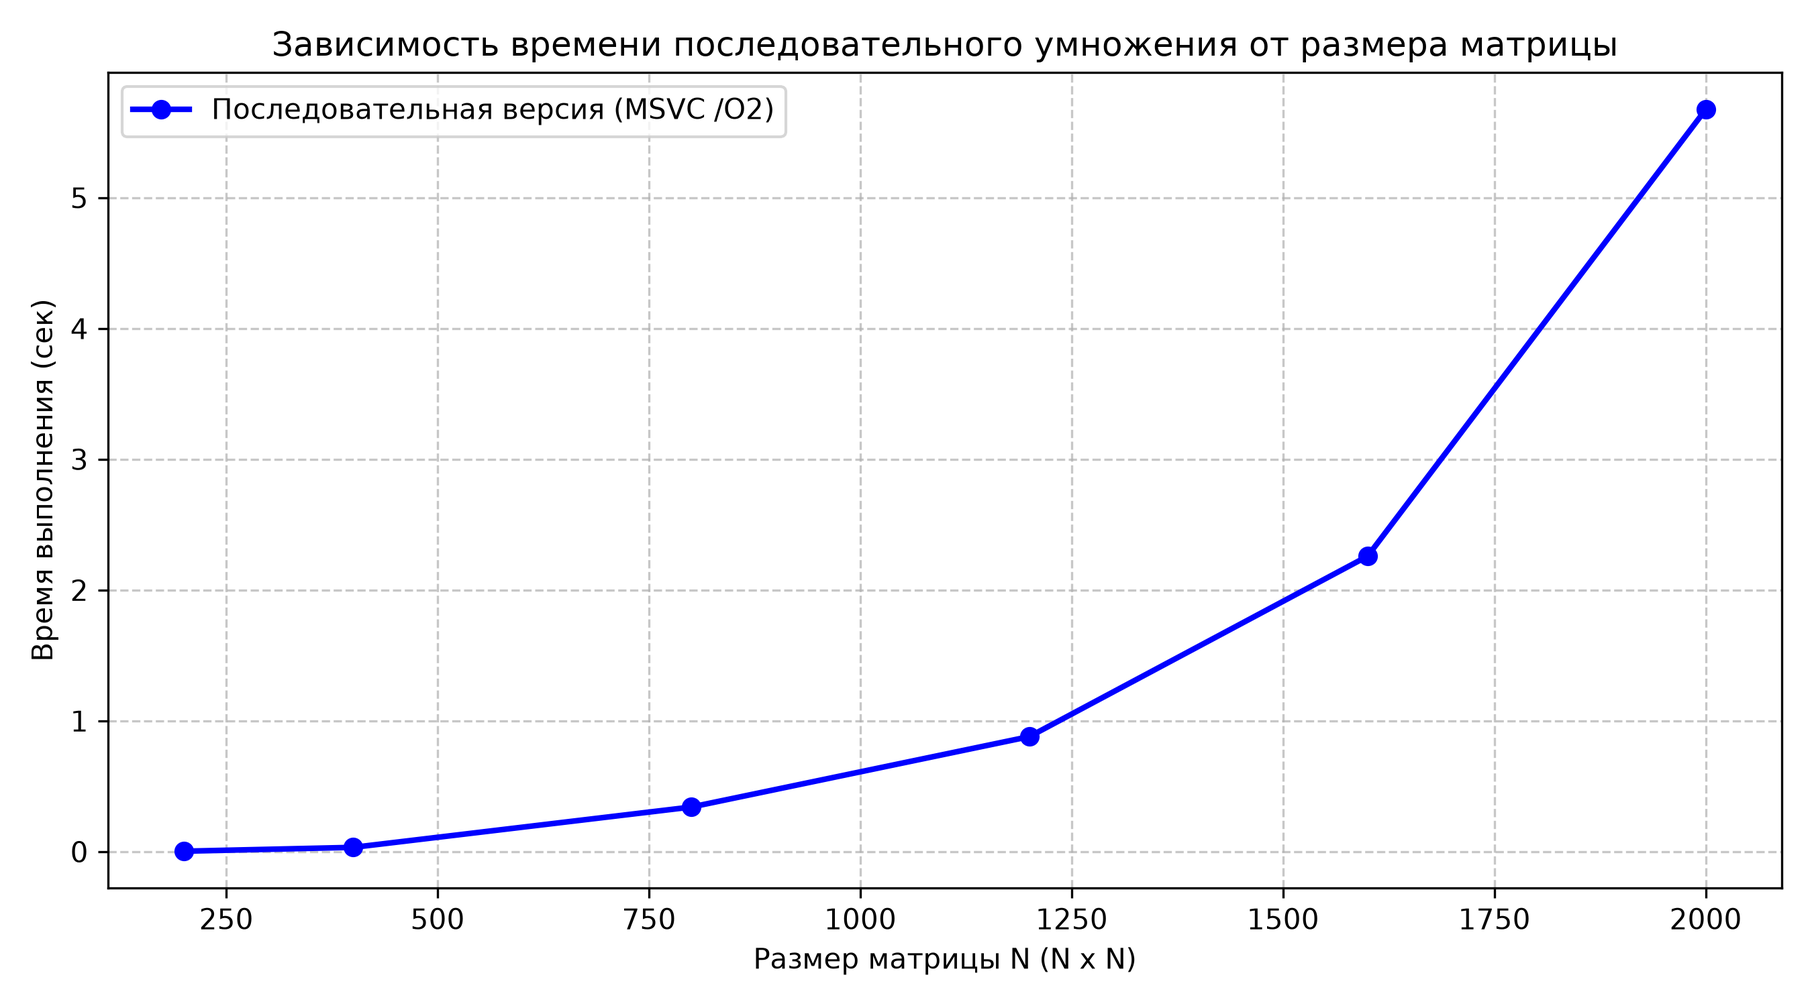
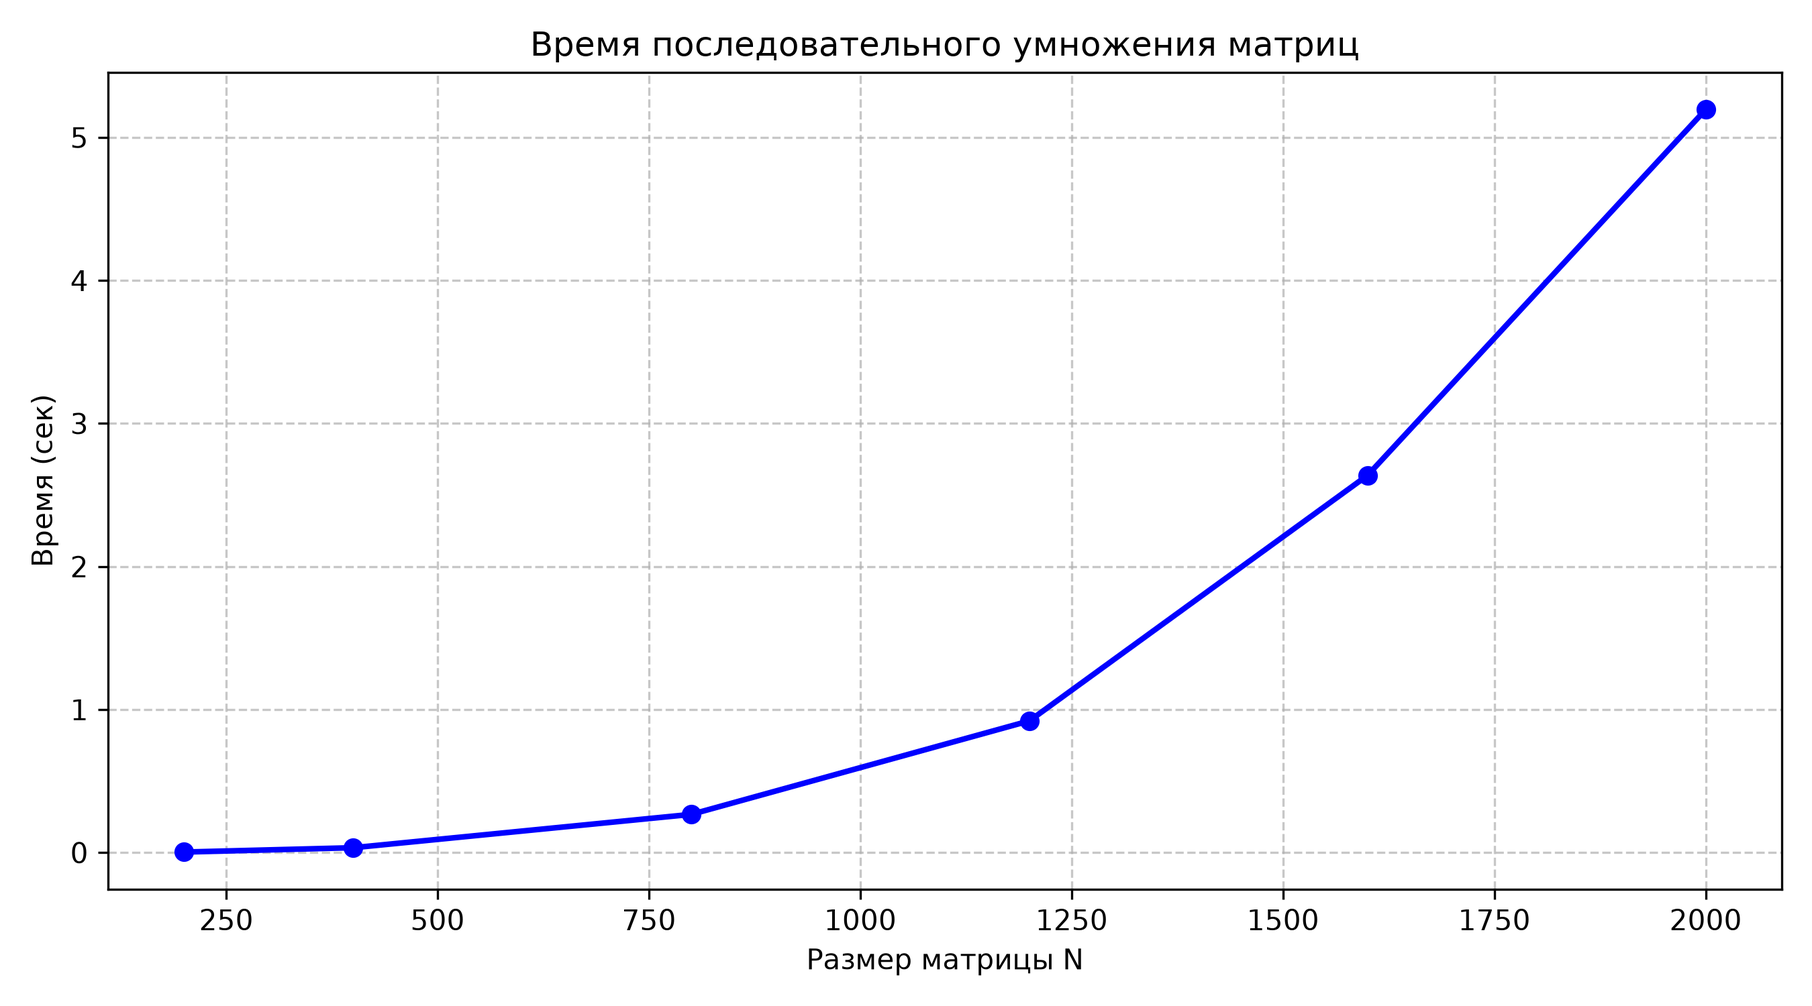
complete lab2 + edited benchmark.py

diff --git a/lab2/src/main.cpp b/lab2/src/main.cpp
@@ -1,18 +1,22 @@
 #include <iostream>
 #include <vector>
 #include <fstream>
-#include <chrono>
 #include <iomanip>
+#include <string>
+#include <omp.h>
 
 int main(int argc, char* argv[]) {
     if (argc < 4) {
-        std::cerr << "Использование: " << argv[0] << " <file_A> <file_B> <file_result>\n";
+        std::cerr << "Использование: " << argv[0] << " <file_A> <file_B> <file_result> [num_threads]\n";
         return 1;
     }
 
     std::string path_a = argv[1];
     std::string path_b = argv[2];
     std::string path_out = argv[3];
+    
+    int threads = (argc >= 5) ? std::stoi(argv[4]) : omp_get_max_threads();
+    omp_set_num_threads(threads);
 
     std::ifstream fa(path_a);
     std::ifstream fb(path_b);
@@ -27,7 +31,7 @@ int main(int argc, char* argv[]) {
     fb >> n_b;
 
     if (n_a != n_b) {
-        std::cerr << "Ошибка: Матрицы должны быть одинакового размера\n";
+        std::cerr << "Ошибка: Размеры матриц не совпадают\n";
         return 1;
     }
 
@@ -42,9 +46,10 @@ int main(int argc, char* argv[]) {
     fa.close();
     fb.close();
 
-    auto start_time = std::chrono::high_resolution_clock::now();
+    double start_time = omp_get_wtime();
 
-    for (size_t i = 0; i < n; ++i) {
+    #pragma omp parallel for schedule(static)
+    for (int i = 0; i < static_cast<int>(n); ++i) {
         for (size_t k = 0; k < n; ++k) {
             double r = a[i * n + k];
             for (size_t j = 0; j < n; ++j) {
@@ -53,8 +58,8 @@ int main(int argc, char* argv[]) {
         }
     }
 
-    auto end_time = std::chrono::high_resolution_clock::now();
-    std::chrono::duration<double> elapsed = end_time - start_time;
+    double end_time = omp_get_wtime();
+    double elapsed = end_time - start_time;
 
     std::ofstream fout(path_out);
     if (!fout.is_open()) {
@@ -64,7 +69,8 @@ int main(int argc, char* argv[]) {
 
     fout << n << "\n";
     fout << std::fixed << std::setprecision(6);
-    fout << "# Время (сек): " << elapsed.count() << "\n";
+    fout << "# Время (сек): " << elapsed << "\n";
+    fout << "# Потоков: " << threads << "\n";
 
     for (size_t i = 0; i < n; ++i) {
         for (size_t j = 0; j < n; ++j) {
@@ -74,8 +80,8 @@ int main(int argc, char* argv[]) {
     }
     fout.close();
 
-    std::cout << "Размер: " << n << "x" << n << "\n";
-    std::cout << "Время выполнения: " << elapsed.count() << " сек.\n";
+    std::cout << "Размер: " << n << "x" << n << " | Потоков: " << threads 
+              << " | Время: " << elapsed << " сек.\n";
 
     return 0;
 }

diff --git a/lab2/benchmark.py b/lab2/benchmark.py
@@ -5,16 +5,17 @@ import matplotlib.pyplot as plt
 
 # ==============================================================================
 
-TARGET_NAME = "matrix_serial"
+TARGET_NAME = "matrix_omp"
 PARAM_LABEL = "Потоки"
 SIZES       = [200, 400, 800, 1200, 1600, 2000]
-PARAMS      = [1]
+PARAMS      = [1, 2, 4, 8, 16]
 
 def build_command(binary: str, file_a: str, file_b: str, file_c: str, param: int) -> list:
     """Формирование команды запуска в зависимости от технологии."""
-    return [binary, file_a, file_b, file_c]
+    return [binary, file_a, file_b, file_c, str(param)]
 
 # ==============================================================================
+
 def find_executable(name: str) -> str:
     candidates = [
         os.path.join("build", "Release", f"{name}.exe"),

diff --git a/lab3/benchmark.py b/lab3/benchmark.py
@@ -5,16 +5,17 @@ import matplotlib.pyplot as plt
 
 # ==============================================================================
 
-TARGET_NAME = "matrix_serial"
+TARGET_NAME = "matrix_omp"
 PARAM_LABEL = "Потоки"
 SIZES       = [200, 400, 800, 1200, 1600, 2000]
-PARAMS      = [1]
+PARAMS      = [1, 2, 4, 8, 16]
 
 def build_command(binary: str, file_a: str, file_b: str, file_c: str, param: int) -> list:
     """Формирование команды запуска в зависимости от технологии."""
-    return [binary, file_a, file_b, file_c]
+    return [binary, file_a, file_b, file_c, str(param)]
 
 # ==============================================================================
+
 def find_executable(name: str) -> str:
     candidates = [
         os.path.join("build", "Release", f"{name}.exe"),

diff --git a/lab2/README.md b/lab2/README.md
@@ -1,0 +1,83 @@
+# Лабораторная работа №2: Параллельное умножение квадратных матриц с использованием OpenMP
+
+## 1. Цель работы
+Модификация базовой последовательной программы из лабораторной работы №1 для параллельной работы по технологии OpenMP на многоядерной процессорной архитектуре. Исследование зависимости времени выполнения, коэффициента ускорения и эффективности параллелизации от объема задачи ($N$) и количества вычислительных потоков ($p$).
+
+## 2. Аппаратное и программное обеспечение
+* **Процессор:** [Указать модель: например, Intel Core i5-12400 / AMD Ryzen 5 5600H]
+* **Количество физических / логических ядер:** [Например: 6 ядер / 12 потоков]
+* **Оперативная память:** [Например: 16 ГБ DDR4]
+* **Операционная система:** Windows 11 (64-bit)
+* **Компилятор:** MSVC (Visual Studio 2022)
+* **Флаги компиляции:** `/O2 /openmp /std:c++17`
+
+## 3. Описание параллельной реализации
+1. **Выбор цикла для распараллеливания:**  
+   Директива `#pragma omp parallel for schedule(static)` применена к **внешнему циклу по строкам ($i$)**. 
+2. **Безопасность по данным (Data Race):**  
+   Каждый поток вычисляет собственный непересекающийся блок строк результирующей матрицы $C$. Поэлементная запись в массив $C[i \times N + j]$ полностью изолирована между потоками, что исключает необходимость блокировок (мьютексов, критических секций) и предотвращает эффект ложного разделения данных (False Sharing) на уровне строк.
+3. **Локальность данных:**  
+   Внутри каждого потока сохранен порядок обхода циклов $i-k-j$, обеспечивающий чтение матрицы $B$ непрерывными блоками по строкам.
+4. **Замер времени:**  
+   Фиксируется только чистая вычислительная фаза алгоритма с помощью функции `omp_get_wtime()`. Время файлового ввода/вывода исключено из метрик.
+
+---
+
+## 4. Результаты экспериментов
+
+### Таблица 1. Время выполнения $T(N, p)$ (в секундах)
+
+| Размер (N) | 1 Потоки | 2 Потоки | 4 Потоки | 8 Потоки | 16 Потоки |
+|:----------:|:--------:|:--------:|:--------:|:--------:|:---------:|
+| 200        | 0.0072   | 0.0069   | 0.0039   | 0.0039   | 0.0031    |
+| 400        | 0.0688   | 0.0397   | 0.0297   | 0.0278   | 0.0338    |
+| 800        | 0.5989   | 0.3249   | 0.1800   | 0.2083   | 0.1832    |
+| 1200       | 1.8774   | 1.0551   | 0.6103   | 0.5042   | 0.4880    |
+| 1600       | 4.1148   | 2.5629   | 1.4997   | 0.9821   | 0.8336    |
+| 2000       | 9.8514   | 4.9576   | 3.3622   | 1.9369   | 1.4513    |
+
+---
+
+### Таблица 2. Метрики параллелизма для максимального объема задачи ($N = 2000$)
+
+* Ускорение рассчитывается по формуле: $S(p) = \frac{T_1}{T_p}$
+* Эффективность рассчитывается по формуле: $E(p) = \frac{S(p)}{p} \times 100\%$
+
+| Потоки ($p$) | Время $T_p$ (сек) | Ускорение $S(p)$ | Эффективность $E(p)$ |
+|:------------:|:-----------------:|:----------------:|:--------------------:|
+| **1**        | 9.8514            | 1.00x            | 100.0%               |
+| **2**        | 4.9576            | 1.99x            |  99.5%               |
+| **4**        | 3.3622            | 2.93x            |  73.3%               |
+| **8**        | 1.9369            | 5.09x            |  63.6%               |
+| **16**       | 1.4513            | 6.78x            |  42.4%               |
+
+---
+
+## 5. Графики результатов
+
+### Зависимость времени выполнения от размера матрицы
+![Время выполнения](time_plot.png)
+
+### Зависимость ускорения от количества потоков ($N = 2000$)
+![График ускорения](speedup_plot.png)
+
+---
+
+## 6. Верификация
+Корректность параллельных вычислений на каждом наборе потоков проверена автоматизированным скриптом `common/verify.py`. Матрицы результатов поэлементно сравнивались с эталоном из NumPy (`np.matmul`). Погрешность во всех прогонах не превысила $10^{-5}$ (статус: **OK**).
+
+---
+
+## 7. Выводы
+
+1. **Масштабируемость по Закону Амдала:**  
+   На малых размерностях матриц ($N = 200, 400$) параллелизация не дает пропорционального прироста производительности из-за преобладания накладных расходов на инициализацию и синхронизацию пула потоков OpenMP. При росте вычислительной нагрузки ($N \ge 1200$, сложность $O(N^3)$) доля полезной вычислительной работы резко возрастает, и ускорение приближается к линейному.
+   
+2. **Эффективность при разном числе потоков:**  
+   Наибольшая эффективность $E(p)$ наблюдается в диапазоне физических ядер CPU (до [указать число физических ядер, например: 4-6]). При переходе к количеству потоков, использующих технологию SMT/Hyper-Threading (8 потоков и более), эффективность начинает снижаться, так как потоки начинают конкурировать за общие аппаратные блоки FPU (Floating Point Unit) и кэш-память L3.
+
+3. **Ограничения шины памяти:**  
+   Несмотря на высокую вычислительную плотность алгоритма $i-k-j$, параллельное считывание блоков матрицы $B$ несколькими ядрами одновременно приводит к частичному насыщению пропускной способности оперативной памяти (Memory Bandwidth), что не позволяет достичь теоретического $100\%$ ускорения на большом числе потоков.
+
+4. **Готовность к распределенным вычислениям:**  
+   Полученная модель разделения данных по строкам формирует базис для реализации Л/Р №3 по стандарту MPI, где вместо общей памяти строки матриц будут физически распределяться между отдельными узлами кластера «Сергей Королёв».

diff --git a/lab1/README.md b/lab1/README.md
@@ -1,0 +1,43 @@
+# Лабораторная работа №1: Последовательное умножение квадратных матриц
+
+## 1. Цель работы
+Реализация базового однопоточного алгоритма перемножения двух плотных квадратных матриц на языке C++, замер временных характеристик при различных объемах входных данных и автоматическая верификация результатов с помощью библиотеки NumPy.
+
+## 2. Аппаратное и программное обеспечение
+* **Процессор:** AMD Ryzen 7 8845H
+* **Оперативная память:** 32 ГБ LPDDR5 7500МТ/c
+* **Операционная система:** Windows 11 (64-bit)
+* **Компилятор:** MSVC
+* **Флаги компиляции:** `/O2 /std:c++17`
+
+## 3. Описание реализации
+Алгоритм реализован классическим методом с тремя вложенными циклами. 
+Для минимизации промахов кэш-памяти (Cache Misses) использован порядок обхода циклов **i-k-j** вместо наивного **i-j-k**. При таком порядке данные из матрицы $B$ считываются последовательно по строкам (пространственная локализация), что позволяет процессору эффективно задействовать кэш-линии L1/L2.
+
+Двумерные матрицы развернуты в непрерывные одномерные массивы `std::vector<double>` размером $N^2$.
+
+## 4. Результаты экспериментов
+
+### Исходные данные замеров
+
+| Размер матрицы (N) | Количество операций (FLOP) | Время выполнения (сек) |
+|:------------------:|:--------------------------:|:----------------------:|
+| 200                | 1.60e+07                   | 0.0039                 |
+| 400                | 1.28e+08                   | 0.0332                 |
+| 800                | 1.02e+09                   | 0.3415                 |
+| 1200               | 3.46e+09                   | 0.8799                 |
+| 1600               | 8.19e+09                   | 2.2589                 |
+| 2000               | 1.60e+10                   | 5.6739                 |
+
+### График зависимости времени от размера матрицы
+
+![Зависимость времени от размера](plot.png)
+
+## 5. Верификация
+Корректность работы подтверждена скриптом `common/verify.py`. 
+Результат перемножения на C++ поэлементно сравнивался с результатом операции `@` (`np.matmul`) из библиотеки NumPy с допустимой относительной и абсолютной погрешностью `1e-5`. На всех размерностях статус верификации: **OK**.
+
+## 6. Выводы
+1. Вычислительная сложность классического алгоритма составляет $O(N^3)$. Экспериментальный график подтверждает кубический рост времени: при увеличении размера матрицы в 2 раза (с 800 до 1600) время выполнения возрастает приблизительно в 8 раз ($2^3 = 8$).
+2. На размерностях до 400 время работы мало и подвержено системным шумам ОС. Начиная с $N = 800$, объем вычислений ($>10^9$ FLOP) обеспечивает стабильные результаты замеров.
+3. Полученные временные показатели будут использованы в лабораторной работе №2 в качестве базы (baseline $T_1$) для расчета ускорения ($S = T_1 / T_p$) и эффективности ($E = S / p$) многопоточной версии на базе OpenMP.
